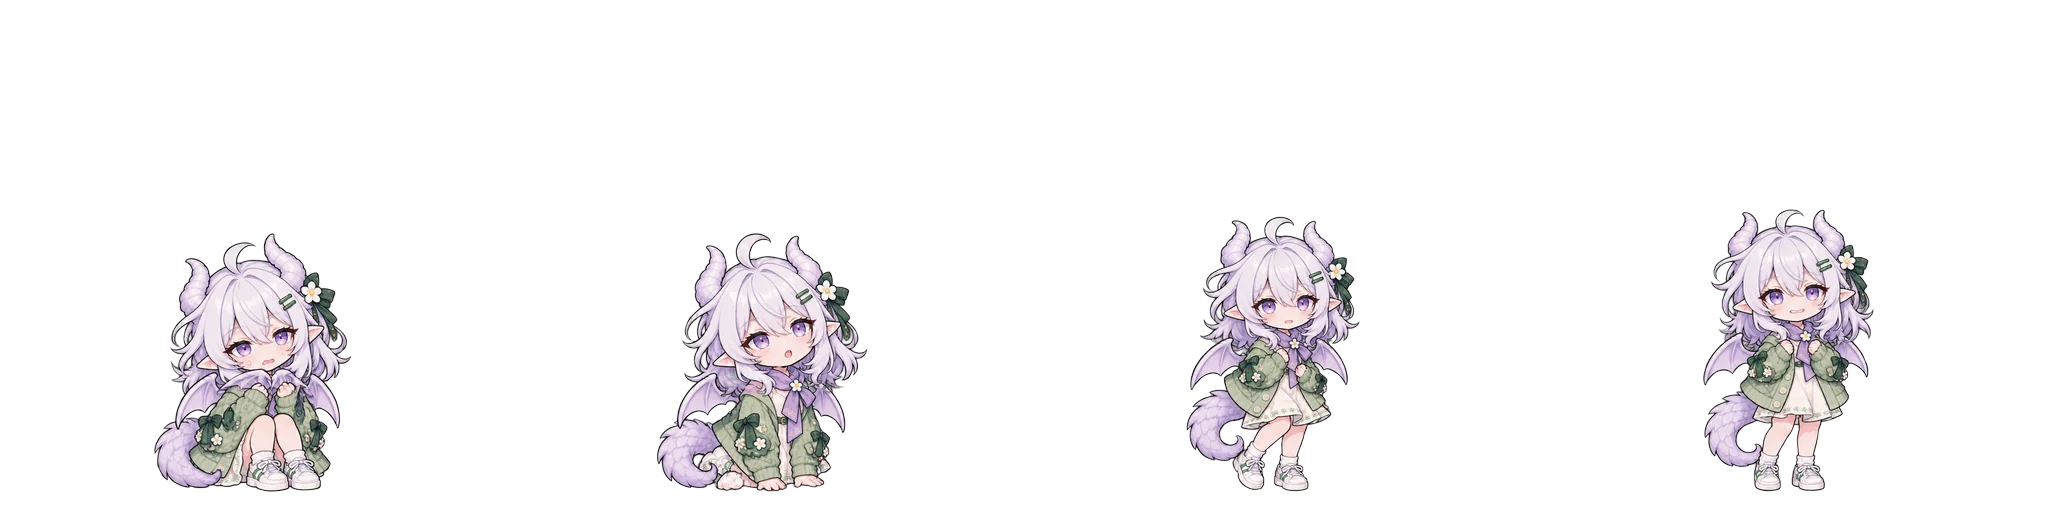
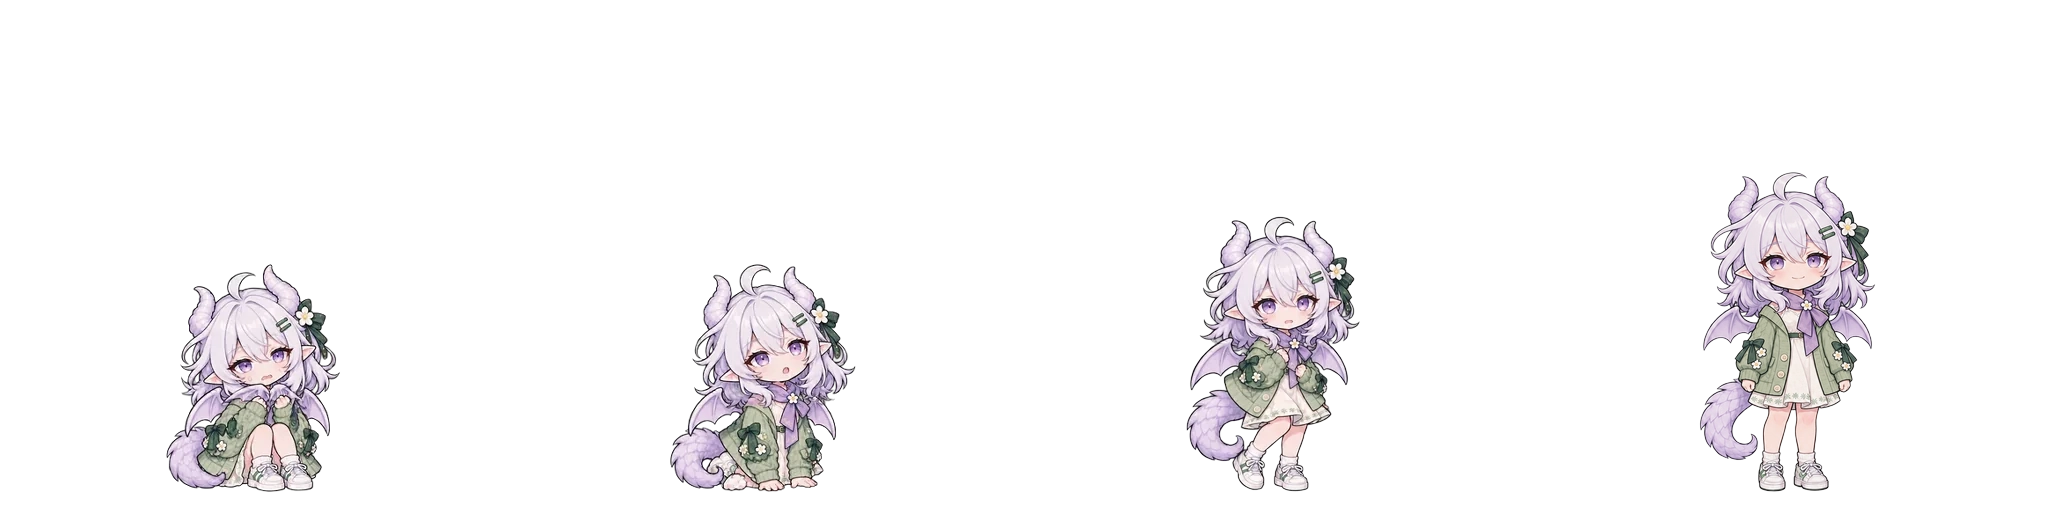
feat(pet): recover from high drops with a complete fear-of-heights scene

Changed region(s): [[0.8125, 0.3438, 0.9375, 0.9688], [0.3125, 0.4375, 0.4375, 0.9688], [0.0625, 0.4688, 0.1875, 0.9688]]

diff --git a/regular/pet_brain.py b/regular/pet_brain.py
@@ -236,10 +236,14 @@ BEAT_LINES = {
     "scene_game_rematch": "再来一局！", "scene_paint_proud": "画好啦，看！", "scene_paint_rework": "这笔歪了。",
     "scene_paint_cheek": "……脸上也画到了。", "scene_sleepy_cover": "我、我在看书。",
     "scene_diary_hide": "不许偷看！", "scene_glass_hello": "你好呀～",
+    "scene_height_nervous": "……刚才好高。", "scene_height_wings": "没、没有怕。",
 }
 DRAGON_COOLDOWN = 1500.0  # 变小龙是偶遇的惊喜：日常里至少隔二十几分钟
 FURNITURE_COOLDOWN = 1800.0
 SHOW_OFF_COOLDOWN = 300.0
+# 被你拎到高处再松手：会飞，但不是自己飞上去的，落地后腿会软一下。
+HEIGHT_FEAR_DROP = 1.6          # 至少比自己高出这么多个身位才算「高」
+HEIGHT_FEAR_COOLDOWN = 240.0
 AIR_FIRE_COOLDOWN = 240.0
 AIR_CHASE_COOLDOWN = 60.0
 AIR_CHASE_SECONDS = 3.0
@@ -427,6 +431,8 @@ class PetBrain:
         self._magic_used = set()
         self._magic_dragon_shown = False
         self._show_off_at = now - SHOW_OFF_COOLDOWN
+        self._height_fear_at = now - HEIGHT_FEAR_COOLDOWN
+        self._air_top: float | None = None    # 被松手后飞得最高的位置，只为落地后那一下腿软
         self._sleep_cue_until = 0.0
         self._prop_chase_at = now - 120.0
         self._chasing_prop = None
@@ -562,6 +568,7 @@ class PetBrain:
     def place(self, x):
         self.x, self.y, self.mode = self._clamp_x(float(x)), self.floor, "ground"
         self._air_chase, self._air_returning = None, False
+        self._air_top = None
 
     def posture(self):
         return CLIPS[self.clip][4]
@@ -1106,6 +1113,17 @@ class PetBrain:
         return [Step(self._pick("fly", "fall", family="flap"), target_y=self.floor, hold="air_return"),
                 Step(self._powered_landing())]
 
+    def _height_scare(self, now, drop):
+        if (not self.motion or self.quiet or drop < self.figure * HEIGHT_FEAR_DROP
+                or self.chat_pending or self.media or now < self.agent_busy_until
+                or (self.state_clip and now < self.state_until)       # 群里真有事时不演
+                or now - self._height_fear_at < HEIGHT_FEAR_COOLDOWN
+                or not (self._has("scene_height_nervous") and self._has("scene_height_wings"))
+                or self.rng.random() >= 0.6):
+            return False
+        self._height_fear_at = now
+        return True
+
     def _powered_landing(self):
         if self._has("motion_fly_approach") and self._has("motion_fly_settle"):
             return "motion_fly_settle"
@@ -1471,6 +1489,8 @@ class PetBrain:
         self.x += self.vx * dt
         self.y += self.vy * dt
         self.vx *= 0.995
+        if self._air_top is not None:
+            self._air_top = min(self._air_top, self.y)
         clamped = self._clamp_x(self.x)
         if clamped != self.x:
             self.x, self.vx = clamped, -self.vx * 0.45
@@ -1492,13 +1512,19 @@ class PetBrain:
             self.swing = self.swing_v = 0.0
             self.plan.clear()
             self.step = None
+            drop = self.floor - self._air_top if self._air_top is not None else 0.0
+            self._air_top = None
             if self._landing:
                 self._land_trick(now)
                 return
             land = self._pick("land", "land")
             self._set_clip(land, now, restart=True)
             steps = [Step(land)]
-            if impact > 1900 * self.scale:
+            if self._height_scare(now, drop):
+                # 怕高：自己飞很熟练，被拎上去再放手就心虚，腿软坐下，抱着翅膀壮胆再站起来。
+                steps += [Step("scene_height_nervous", line=BEAT_LINES["scene_height_nervous"]),
+                          Step("scene_height_wings", line=BEAT_LINES["scene_height_wings"])]
+            elif impact > 1900 * self.scale:
                 steps.append(Step("startle"))       # 摔狠了只哆嗦一下，不再跺脚瞪人
                 self.say(self.rng.choice(LINES["thrown"]), now=now, seconds=3.0)
                 self._emit("sweat", now)
@@ -2528,6 +2554,7 @@ class PetBrain:
                 self._set_clip(entry, now, restart=True)
                 return "drop"
             self.mode = "air"
+            self._air_top = self.y
             self._set_clip(self._pick("fall", "fall"), now, restart=True)
             return "drop"
         return "click" if pressed is not None else None

diff --git a/tools/record_pet.py b/tools/record_pet.py
@@ -23,7 +23,7 @@ def main():
     parser.add_argument('--out', type=Path, required=True)
     parser.add_argument('--scenes', default='feed,left,right,top,bottom',
                         help='comma-separated scenes; includes magic-dragon, magic-prop, magic_daily_*, '
-                             'flight-interrupt, inspect-dragon_snack_berry and inspect-life_comic_turn')
+                             'fear-drop, flight-interrupt, inspect-dragon_snack_berry and inspect-life_comic_turn')
     parser.add_argument('--seed', type=int, default=7, help='reproducible optional action variants')
     parser.add_argument('--seconds', type=float, default=16.0,
                         help='real-time duration per scene, for example 8, 10 or 16 seconds')
@@ -54,7 +54,7 @@ def main():
     adopted = available()
     daily = {name for name in adopted if name.startswith('daily_')}
     air_scenes = {'air-fire', 'air-flight', 'air-catch', 'air-miss'}
-    throw_scenes = {'throw', 'drop'}
+    throw_scenes = {'throw', 'drop', 'fear-drop'}
     magic_scenes = {'magic-dragon': None, 'magic-prop': 'prop',
                     **{name: name for name in DAILY_MAGIC if name in adopted}}
     inspect_scenes = {f'inspect-{name}': name for name in ('dragon_snack_berry', 'life_comic_turn')
@@ -169,6 +169,8 @@ def main():
             pet._sync_windows(force=True)
             crop = (area.left() - 30, area.top() - 30, area.width() + 60, area.height() + 60)
         throw_origin = (brain.x, brain.floor - 100)
+        lift_distance = (min(brain.figure * 3, brain.floor - area.top() - brain.figure * 1.5)
+                         if scene == 'fear-drop' else 350)
         if scene == 'magic-prop':
             brain.place(brain.left + brain.figure * 0.9)
             pet._sync_windows(force=True)
@@ -402,7 +404,7 @@ def main():
                         lift = min(1.0, (elapsed - 1.04) / 0.96)
                         flick = max(0.0, (elapsed - 2.5) / 0.3) if scene == 'throw' else 0.0
                         pointer[0] = QPoint(round(throw_origin[0] + 240 * flick),
-                                            round(throw_origin[1] - 350 * lift - 200 * flick))
+                                            round(throw_origin[1] - lift_distance * lift - 200 * flick))
                         brain.drag(now, pointer[0].x(), pointer[0].y())
                     once('release', elapsed, 2.8,
                          lambda: brain.release(now, pointer[0].x(), pointer[0].y()))
@@ -475,6 +477,21 @@ def main():
         if errors:
             raise errors[0]
         checks = {}
+        if scene == 'fear-drop':
+            sequence = []
+            for row in records:
+                if not sequence or sequence[-1] != row['clip']:
+                    sequence.append(row['clip'])
+            checks['real_drag_and_release'] = {'press', 'release'} <= events and any(
+                row['mode'] == 'air' for row in records)
+            checks['fear_after_landing'] = [clip for clip in sequence if clip.startswith('scene_height_')] == [
+                'scene_height_nervous', 'scene_height_wings'] and all(
+                    row['mode'] == 'ground' for row in records if row['clip'].startswith('scene_height_'))
+            land_at = next((row['t'] for row in records if row['clip_family'] == 'landing'), None)
+            fear_at = next((row['t'] for row in records if row['clip'] == 'scene_height_nervous'), None)
+            checks['landing_precedes_fear'] = land_at is not None and fear_at is not None and land_at < fear_at
+            checks['returned_to_ground_idle'] = records[-1]['mode'] == 'ground' and records[-1]['clip'] == 'idle'
+            checks['height_history_cleared'] = brain._air_top is None
         if scene in focused_scenes:
             checks['returned_to_ground_idle'] = records[-1]['mode'] == 'ground' and records[-1]['clip'] == 'idle'
             if scene in magic_scenes:

diff --git a/regular/pet_actions_scenes.py b/regular/pet_actions_scenes.py
@@ -19,7 +19,7 @@ _ROWS = [
     ("sweet_caught", "偷吃被发现", "idle", "stand", "stand", "scene_sweet", "sweet", "One partly eaten cookie. Frame 1 freeze mid-bite after noticing viewer; 2 lean back, surprised and blushing; 3 offer the remaining cookie with an apologetic bow; 4 smile sheepishly. No other person."),
     ("height_peek", "探头看高处", "idle", "stand", "stand", "scene_height", "height", "An invisible screen edge, no edge drawn. Frame 1 cautiously lean forward; 2 look downward over the imaginary edge; 3 recoil with wide anxious eyes, knees bent; 4 step back and hug her wings. Complete body inside every frame."),
     ("height_nervous", "高处脚软", "idle", "stand", "sit", "scene_height", "height", "Frame 1 look down nervously at an imaginary height; 2 knees wobble and wings tuck tight; 3 sink into a crouch hugging both wings; 4 sit safely on the ground line with a relieved but embarrassed smile. No ledge or background."),
-    ("height_wings", "抱住翅膀壮胆", "idle", "sit", "stand", "scene_height", "height", "Frame 1 sit hugging her folded wings, anxious; 2 peek up and take a breath; 3 push up to standing while keeping wings close; 4 look at the viewer with a brave but nervous smile. No ledge."),
+    ("height_wings", "抱住翅膀壮胆", "idle", "sit", "stand", "scene_height", "height", "Frame 1 sit hugging her folded wings, anxious; 2 peek up and take a breath; 3 push up while keeping wings close, knees still slightly bent; 4 finish straightening both knees and her torso, lower both hands naturally beside her body, and look at the viewer with a brave but nervous smile. The final frame must reach the idle reference's fully standing height and head position with unchanged head diameter and feet baseline; do not end still crouching or enlarge the whole figure. No ledge."),
     ("height_shortcut", "传送走捷径", "idle", "stand", "stand", "scene_height", "height", "Frame 1 peer downward fearfully at an imaginary height; 2 step back and think, finger raised; 3 draw a tiny hand-sized glowing ring beside her with one hand; 4 point to it with a relieved grin as if choosing a shortcut. The ring stays small; no real hole or background."),
     ("fire_overdo", "耍帅喷火", "idle", "stand", "stand", "scene_fire", "fire", "Frame 1 plant feet and pose confidently, wings open; 2 take a theatrical breath; 3 lean forward and breathe an exaggerated but harmless FAIRY-TALE orange flame, roughly as tall as her torso, entirely inside the cell; 4 recoil with shocked eyes at her own flame. No smoke filling the scene."),
     ("fire_startled", "被自己的火吓到", "idle", "stand", "sit", "scene_fire", "fire", "A single contained cartoon flame no larger than her torso. Frame 1 admire her own flame proudly; 2 notice its size with alarm; 3 hop backward with both hands raised and wings tucked; 4 land sitting safely, eyes wide, as flame shrinks. No destruction."),
@@ -58,8 +58,7 @@ ACTIONS = {
         "title": title, "prompt": _HEAD + action, "style": style,
         "starts_from": start, "posture": end, "role": role, "family": family,
         "fps": 4.0, "loop": name in _LOOPS, "scale": 1.0,
-        # The height beats play quickly inside the top-edge exit, which times them itself.
-        **({} if name in _LOOPS or name.startswith("height_") else {"sequence": _BEATS}),
+        **({} if name in _LOOPS else {"sequence": _BEATS}),
         "duration": 45.0 if name in _LOOPS else 1.0, "drop_strays": True,
         **({"restful": True} if name in _LOOPS else {}),
         **({"frame_calibration": True, "anchor_x": 256, "fixed_ground": True}

diff --git a/tests/test_pet_brain.py b/tests/test_pet_brain.py
@@ -1485,6 +1485,44 @@ class InteractionTest(unittest.TestCase):
         self.assertNotIn("pout", clips)
         self.assertIn(b.bubble.text if b.bubble else "", LINES["thrown"] + ("",))
 
+    def test_lifted_high_then_dropped_her_legs_go_weak_before_she_stands_back_up(self):
+        def lift_and_drop(b, t, height):
+            b.press(t, 700, 760)
+            for i in range(30):                                   # lift slowly, then hold still
+                t += 1 / 30
+                b.drag(t, 700, 760 - (760 - height) * min(1.0, (i + 1) / 15))
+                b.tick(t)
+            b.release(t, 700, height)
+            return run(b, t, 12.0)
+
+        def drop(seed, height, *, quiet=False):
+            b = PetBrain(rng=random.Random(seed), now=0.0, quiet=quiet)
+            b.set_ground(0, 1440, 860, 30)
+            b.place(700)
+            return b, *lift_and_drop(b, 1.0, height)
+
+        high = [drop(seed, 200)[2] for seed in range(12)]
+        scared = [clips for clips in high if "scene_height_nervous" in clips]
+        self.assertTrue(scared)                                   # a real chance, not every time
+        self.assertLess(len(scared), len(high))
+        for clips in scared:
+            self.assertEqual([c for c in clips if c.startswith("scene_height_")],
+                             ["scene_height_nervous", "scene_height_wings"])
+            self.assertNotIn("startle", clips)
+        # A hop off your hand or staying put stays calm.
+        for seed in range(12):
+            self.assertNotIn("scene_height_nervous", drop(seed, 640)[2])
+            self.assertNotIn("scene_height_nervous", drop(seed, 200, quiet=True)[2])
+        # One scare, then a cooldown: a second high drop right after only lands.
+        for seed in range(12):
+            b, t, clips = drop(seed, 200)
+            if "scene_height_nervous" in clips:
+                _, again = lift_and_drop(b, t, 200)
+                self.assertNotIn("scene_height_nervous", again)
+                break
+        else:
+            self.fail("no seed was scared")
+
     def test_clicks_rotate_small_reactions_and_never_escalate_to_a_sulk(self):
         b = brain()
         b.press(1.0, 700, 760)

diff --git a/docs/character.md b/docs/character.md
@@ -19,7 +19,7 @@
 | 贪睡，也舍不得错过热闹 | 想知道后面发生什么，眼皮却先撑不住 | 漫画读到有趣处笑出来；困着点头后夹好书签；`daily_book_hug_sleep` 合书抱好安心睡去，再用同源睡姿安静停留，不补装精神的尾巴 |
 | 爱甜食，也想当大方群友 | 真想分给你，又有点舍不得 | 犹豫后主动掰一半；偷咬被看见，把更大的一半递给你；`daily_last_cookie` 把最后一块完整饼干放到你这边，自己空着手退开 |
 | 爱耍帅，有一点薄脸皮 | 想被夸，也愿意把本事用在小事上 | 小火控制得刚刚好，坦然鞠躬；喷火过猛后认真扑灭；`daily_lamp_shelter` 收起炫技姿势，改用小火护住快灭的灯 |
-| 会飞，却会在高处腿软 | 自己掌控的短飞熟练，突然往下看会心虚 | 短飞后平稳收翼落地；顶部保持探头位置开阵，入口与地面出口张开后才松脚转身；`edge_daily_top_wonder` 藏住身体、只探出倒挂的头和必要手部，用眼神追随绒羽，安静看一会儿 |
+| 会飞，却会在高处腿软 | 自己掌控的短飞熟练，突然往下看会心虚 | 短飞后平稳收翼落地；被你拎到高处（离地至少 1.6 个身位）再松手，扑腾落地后腿一软坐下、抱着翅膀壮胆再站起来（`scene_height_nervous → scene_height_wings`，六成机会、四分钟冷却，安静模式或群里正忙时不演）；顶部保持探头位置开阵，入口与地面出口张开后才松脚转身；`edge_daily_top_wonder` 藏住身体、只探出倒挂的头和必要手部，用眼神追随绒羽，安静看一会儿 |
 | 是条龙，嘴仍然怕烫 | 烧水太方便，喝水太着急 | 温度刚好，舒服地抿一口、举杯；烫到后吹凉，再小口喝；`daily_second_cup` 把第二杯吹凉才递给你，让怕烫变成体贴 |
 | 有一点收藏癖 | 喜欢亮晶晶，也在意谁能一起欣赏 | 擦亮宝石后递出来分享；转金币、接稳，自得其乐；`daily_old_keepsake` 在旧盒子里翻到小星饰，停下清点，出神地看它 |
 | 好奇又好胜 | 想弄明白，也想赢，但不是每次都赢 | 游戏赢了起身举起掌机；惜败后可以停下来，重赛仍可能输；`daily_game_set_down` 困了认真放下掌机，保留失落；`daily_curious_feather` 蹲下观察羽毛，最后坐着看入迷 |
@@ -50,7 +50,7 @@
 
 ## 变成小龙：真的会变，但不太熟练
 
-自动变龙是偶遇的惊喜；主动点「变个魔法」时，首次优先让你看到小龙，之后轮换已采用的日常魔法和有目标的传送。她「噗」地冒出一团云，云散开就是小龙；做一件事，再一团云变回来，用一个具体动作收尾。变身不画半人半龙的中间帧，云团在切换的那一刻已经完全盖住她。
+自动变龙是偶遇的惊喜；她醒着、空闲且开启动作时，主动点「变个魔法」的首次成功请求优先让你看到小龙，之后轮换小龙、已采用的日常魔法和有目标的传送。她「噗」地冒出一团云，云散开就是小龙；做一件事，再一团云变回来，用一个具体动作收尾。变身不画半人半龙的中间帧，云团在切换的那一刻已经完全盖住她。
 
 | 小龙想做的事 | 结果 | 变回来的收尾 |
 | --- | --- | --- |
